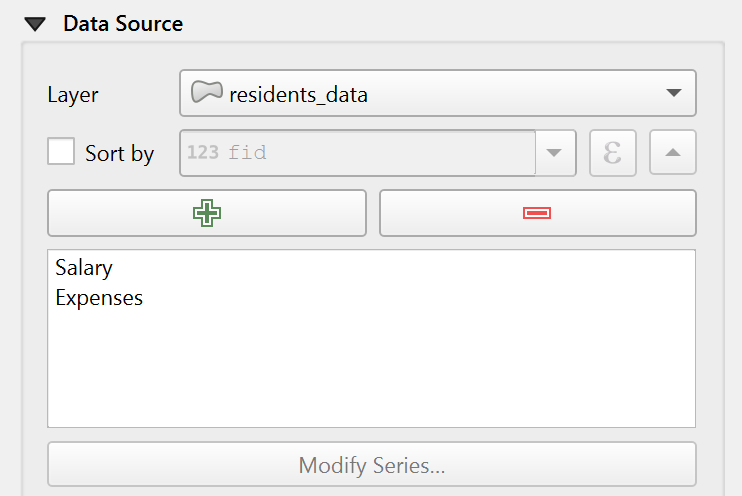
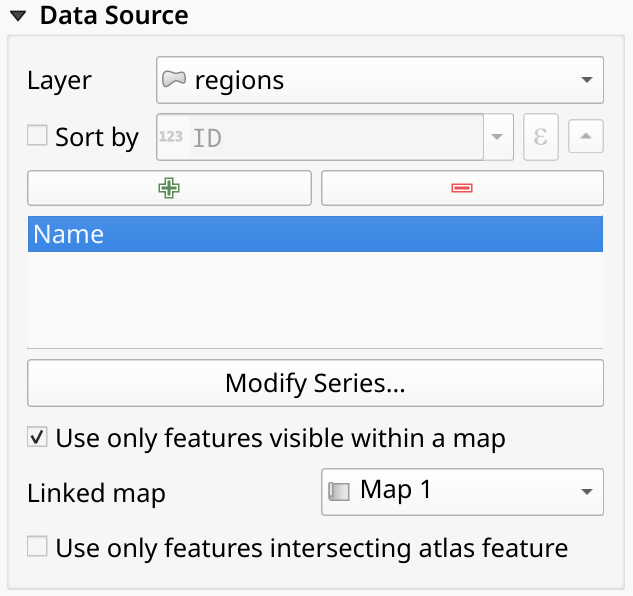
Layout: Chart Items, Data source update

diff --git a/docs/user_manual/print_layout/layout_items/layout_chart.rst b/docs/user_manual/print_layout/layout_items/layout_chart.rst
@@ -146,6 +146,11 @@ In this section, select and configure the layer and fields you want to display i
 #. Double-click a series name to rename it.
 #. Click :guilabel:`Modify Series...` button and define the :guilabel:`X-axis` and :guilabel:`Y-axis` fields using the drop-down lists.
    Optionally, add a filter expression to display only specific data in the chart.
+#. Check the |checkbox| :guilabel:`Use only features visible within a map` option to include only features that are currently visible
+   in the map canvas based on the current map extent. From the :guilabel:`Linked map` drop-down list, select the map to link the chart to.
+#. Check the |checkbox| :guilabel:`Use only features intersecting atlas features` option to include only features that intersect
+   with the :ref:`atlas feature <atlas_generation>`.
+
 
 .. figure:: img/chart_datasource.png
    :align: center
